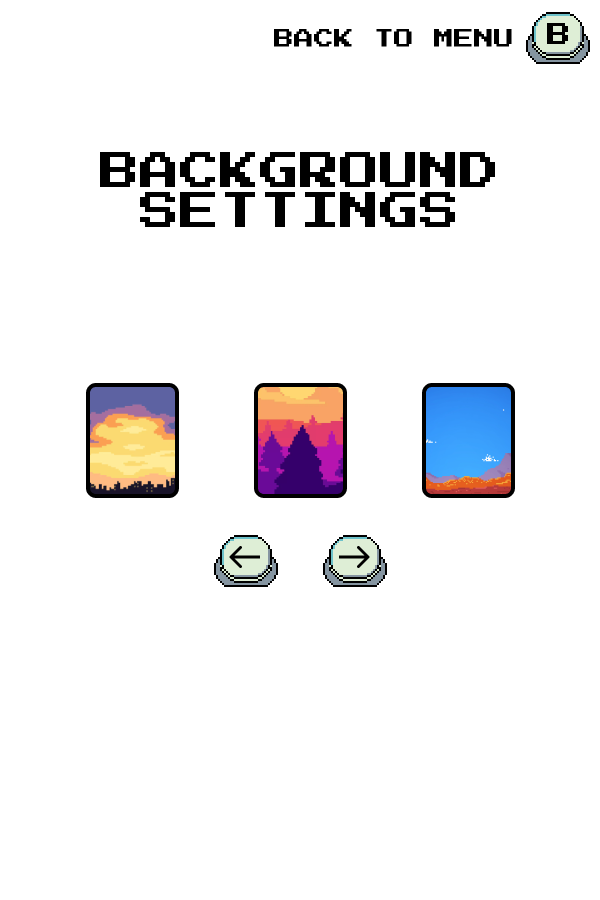
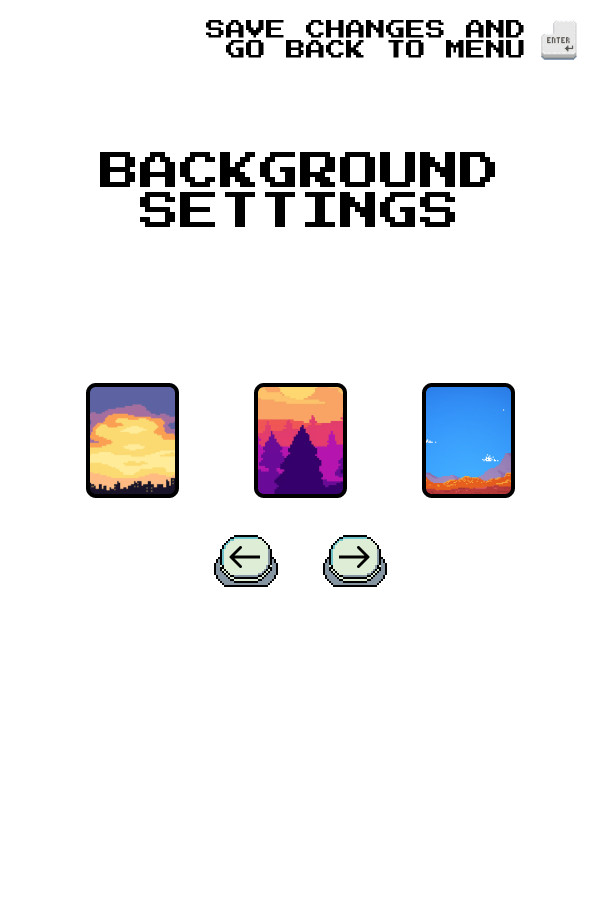
Change back to menu button

Changed region(s): [[0.33, 0.0, 0.99, 0.0933]]

diff --git a/main.py b/main.py
@@ -11,7 +11,7 @@ from states import ScreenState
 MENU_LAYOUT = pygame.image.load('assets/layouts/menu-layout.png')
 BACKGROUND_SETTINGS_LAYOUT = pygame.image.load('assets/layouts/background-settings-layout.png')
 BIRD_SETTINGS_LAYOUT = pygame.image.load('assets/layouts/bird-settings-layout.png')
-COLUMN_SETTINGS_LAYOUT = pygame.image.load('assets/layouts/column-settings-layout.png')
+COLUMN_SETTINGS_LAYOUT = pygame.image.load('assets/layouts/barrier-settings-layout.png')
 VERTICAL_FRAME = pygame.image.load('assets/vertical-frame.png')
 HORIZONTAL_FRAME = pygame.image.load('assets/horizontal-frame.png')
 
@@ -150,7 +150,7 @@ def background_settings_screen():
         if event.type == pygame.QUIT:
             pygame.quit()
         elif event.type == pygame.KEYDOWN:
-            if event.key == pygame.K_b:
+            if event.key == pygame.K_RETURN:
                 screen.state = ScreenState.MENU
             elif event.key == pygame.K_RIGHT:
                 background.change_background_right()
@@ -171,7 +171,7 @@ def bird_settings_screen():
         if event.type == pygame.QUIT:
             pygame.quit()
         elif event.type == pygame.KEYDOWN:
-            if event.key == pygame.K_b:
+            if event.key == pygame.K_RETURN:
                 screen.state = ScreenState.MENU
             elif event.key == pygame.K_RIGHT:
                 bird.change_bird_right()
